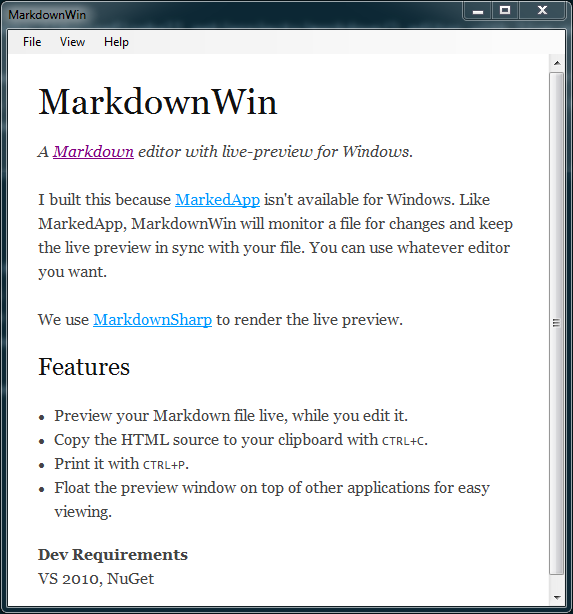
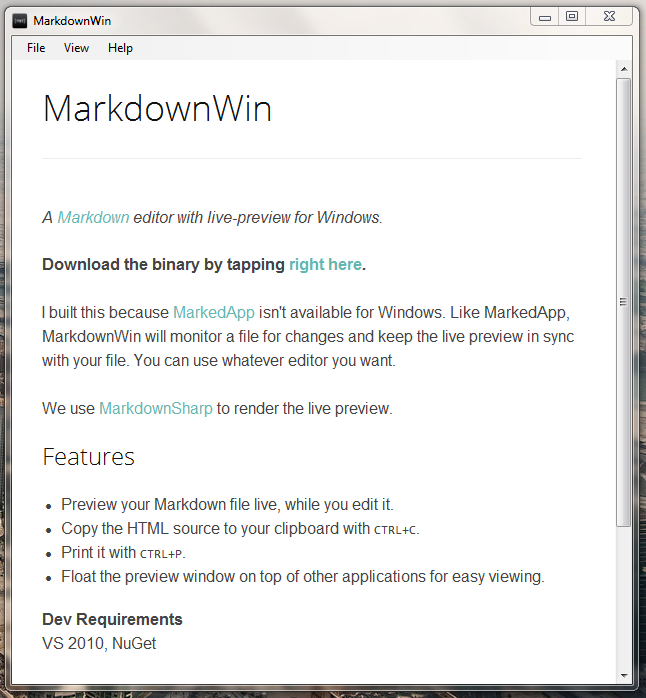
style changes

Changed region(s): [[0.0, 0.0, 1.0, 1.0], [0.0593, 0.2166, 0.8901, 0.6189], [0.0593, 0.1238, 0.5044, 0.1857]]

diff --git a/src/MarkdownWin/markdown.css b/src/MarkdownWin/markdown.css
@@ -46,19 +46,19 @@ h5
 }
 a
 {
-    color: #0099ff;
+    color: #64B6B1;
+    text-decoration: none;
     margin: 0;
     padding: 0;
     vertical-align: baseline;
 }
 a:hover
 {
-    text-decoration: none;
-    color: #ff6600;
+    color: #46433A;
 }
 a:visited
 {
-    color: purple;
+    color: #CE534D;
 }
 ul, ol
 {
@@ -126,9 +126,9 @@ hr
 {
     width: 540px;
     text-align: left;
-    margin: 0 auto 0 0;
-    color: #333;
-    background-color: #333;
+    margin: 1.2em auto 1.2em 0;
+    color: #EEE;
+    background-color: #EEE;
     border: 0;
-    height: 2px;
+    height: 1px;
 }

diff --git a/readme.md b/readme.md
@@ -19,7 +19,7 @@ We use [MarkdownSharp](http://code.google.com/p/markdownsharp/) to render the li
 * Print it with `CTRL+P`.
 * Float the preview window on top of other applications for easy viewing.
 
-![Screenshot](https://raw.github.com/jpoehls/MarkdownWin/master/screenshot.png)
+![Screenshot](https://raw.github.com/cynosura/MarkdownWin/master/screenshot.png)
 
 **Dev Requirements**  
 VS 2010, NuGet
